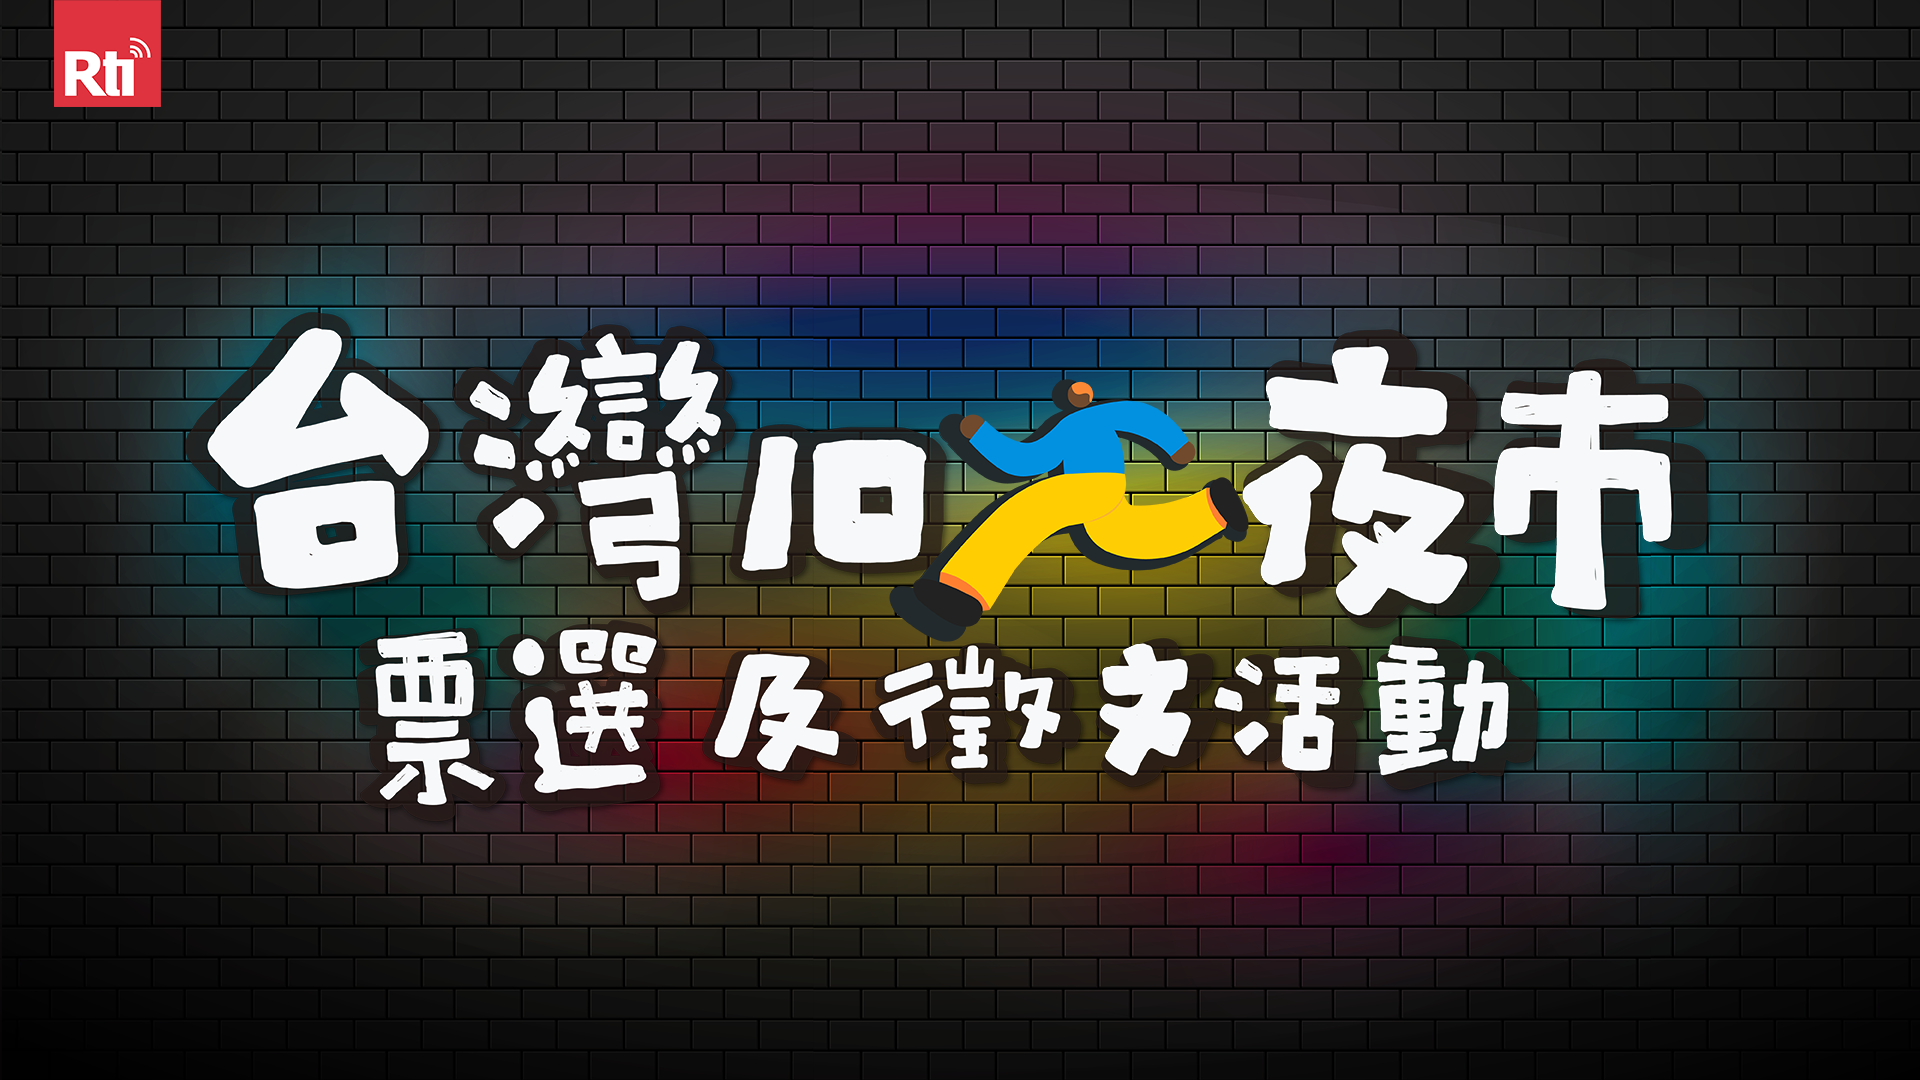
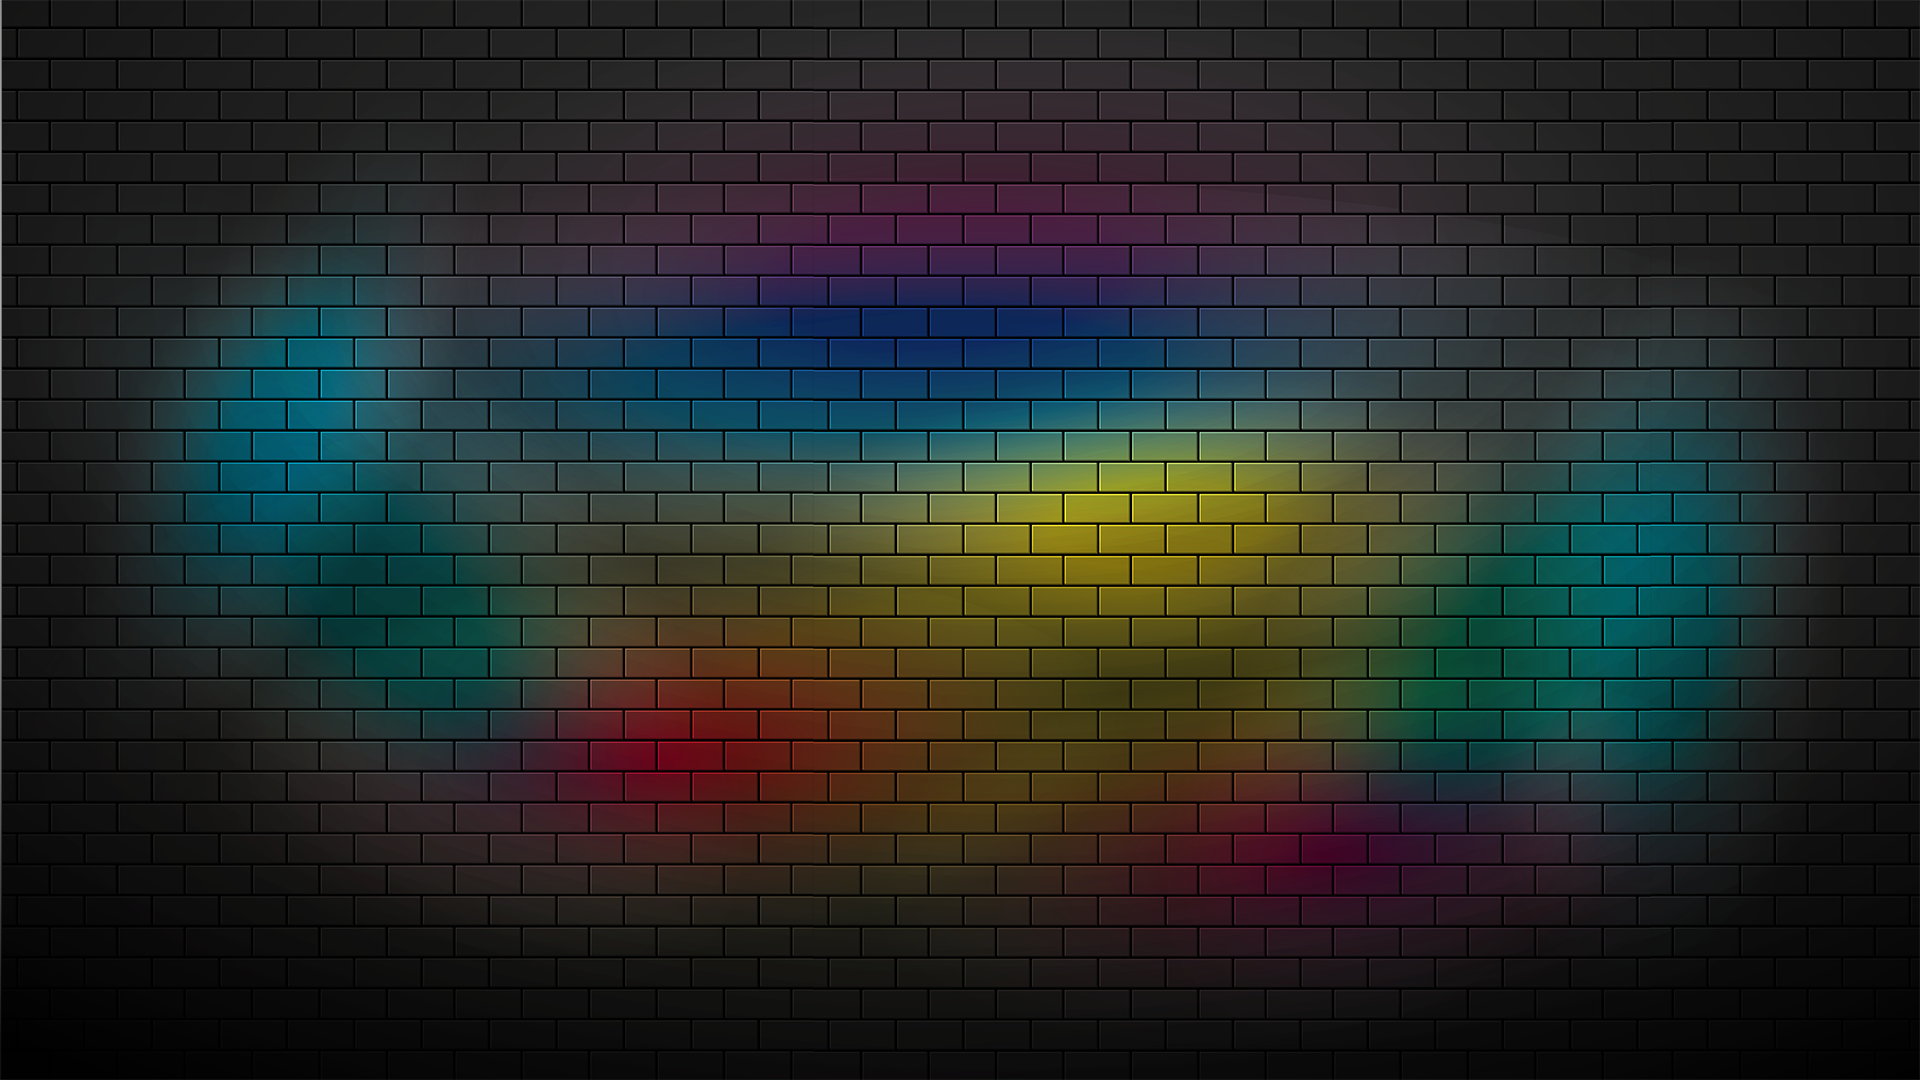
banner處理完成： 1.替換圖片 2.增加霓虹燈效果

Changed region(s): [[0.0938, 0.275, 0.9062, 0.7639], [0.0, 0.0, 0.0938, 0.1222]]

diff --git a/components/layout/banner/styles.module.css b/components/layout/banner/styles.module.css
@@ -19,7 +19,6 @@
   object-fit: cover;
 }
 
-
 .bannerBg2 img, .tabletBannerBg2 img {
   width: 100%;
   height: 100%;
@@ -43,6 +42,63 @@
   z-index: 1;
 }
 
+/* 霓虹燈動畫效果 - 應用到裝飾圖片 */
+.decorationImage {
+  animation: neonImageFlicker 4s ease-in-out infinite;
+  filter: brightness(1.1) saturate(1.2);
+}
+
+/* 霓虹燈圖片閃爍動畫 */
+@keyframes neonImageFlicker {
+  0%, 25% {
+    filter: 
+      brightness(1.1) 
+      saturate(1.2) 
+      drop-shadow(0 0 10px rgba(255, 215, 0, 0.8))
+      drop-shadow(0 0 20px rgba(255, 215, 0, 0.6))
+      drop-shadow(0 0 30px rgba(255, 215, 0, 0.4));
+    opacity: 1;
+  }
+  
+  30%, 35% {
+    filter: 
+      brightness(0.9) 
+      saturate(1.0) 
+      drop-shadow(0 0 5px rgba(255, 215, 0, 0.4))
+      drop-shadow(0 0 10px rgba(255, 215, 0, 0.2));
+    opacity: 0.85;
+  }
+  
+  40%, 65% {
+    filter: 
+      brightness(1.2) 
+      saturate(1.3) 
+      drop-shadow(0 0 15px rgba(0, 191, 255, 0.8))
+      drop-shadow(0 0 25px rgba(0, 191, 255, 0.6))
+      drop-shadow(0 0 35px rgba(0, 191, 255, 0.4));
+    opacity: 1;
+  }
+  
+  70%, 75% {
+    filter: 
+      brightness(0.8) 
+      saturate(0.9) 
+      drop-shadow(0 0 8px rgba(0, 191, 255, 0.3))
+      drop-shadow(0 0 12px rgba(0, 191, 255, 0.2));
+    opacity: 0.8;
+  }
+  
+  80%, 100% {
+    filter: 
+      brightness(1.15) 
+      saturate(1.25) 
+      drop-shadow(0 0 12px rgba(255, 100, 255, 0.7))
+      drop-shadow(0 0 22px rgba(255, 100, 255, 0.5))
+      drop-shadow(0 0 32px rgba(255, 100, 255, 0.3));
+    opacity: 0.95;
+  }
+}
+
 .logoContainer, .tabletLogoContainer, .mobileLogoContainer {
   position: absolute;
   top: 0;
@@ -55,22 +111,23 @@
   z-index: 10;
 }
 
+/* Logo尺寸放大 - 桌機Logo再大一點 */
 .logoWrapper {
-  width: 60%;
-  max-width: 850px;
-  min-width: 400px;
+  width: 85%;
+  max-width: 1300px;
+  min-width: 600px;
 }
 
 .tabletLogoWrapper {
-  width: 70%;
-  max-width: 600px;
-  min-width: 350px;
+  width: 90%;
+  max-width: 1200px;
+  min-width: 580px;
 }
 
 .mobileLogoWrapper {
-  width: 90%;
-  max-width: 450px;
-  min-width: 280px;
+  width: 95%;
+  max-width: 600px;
+  min-width: 350px;
 }
 
 .hidden {
@@ -108,20 +165,40 @@
     left: 50px;
     width: 80px;
   }
+  
+  .decorationImage {
+    animation-duration: 3.5s;
+  }
 }
 
 /* 手機樣式調整 */
 @media (max-width: 768px) {
   .tabletLogoWrapper {
-    width: 65%;
-    min-width: 280px;
+    width: 85%;
+    min-width: 480px;
+  }
+  
+  .decorationImage {
+    animation-duration: 3s;
   }
 }
 
 @media (max-width: 576px) {
   .mobileLogoWrapper {
-    width: 90%;
-    min-width: 250px;
+    width: 95%;
+    min-width: 320px;
+  }
+  
+  .decorationImage {
+    animation-duration: 2.5s;
+  }
+  
+  /* 手機尺寸背景圖填滿整個裝置 */
+  .mobileBannerBg1 img {
+    width: 100%;
+    height: 100%;
+    object-fit: cover;
+    object-position: center;
   }
 }
 
@@ -132,9 +209,13 @@
   }
   
   .mobileLogoWrapper {
-    width: 85%;
-    min-width: 180px;
-    transform: scale(0.85);
+    width: 90%;
+    min-width: 250px;
+    transform: scale(0.9);
+  }
+  
+  .decorationImage {
+    animation-duration: 2s;
   }
   
   .mobileBannerContainer {
@@ -162,6 +243,7 @@
     width: 100%;
     height: 100%;
     object-fit: cover;
+    object-position: center;
     min-height: 100vh;
   }
   

diff --git a/components/layout/banner/index.js b/components/layout/banner/index.js
@@ -120,16 +120,16 @@ const AnimatedBanner = () => {
           />
         </div>
 
-        {/* 手機第二張背景圖 - 淡入效果 */}
+        {/* 手機裝飾圖片 - 霓虹燈動畫 */}
         <div
           className={styles.mobileBannerBg2}
           style={{ opacity: mounted ? 1 : 0 }}
         >
           <img
-            src={getImagePath('/image/banner/mb-2.png')}
-            alt="手機背景圖片2"
+            src={getImagePath('/image/banner/mb-dec.png')}
+            alt="手機裝飾圖片"
             loading="lazy"
-            style={{ objectFit: 'cover', width: '100%', height: '100%' }}
+            className={styles.decorationImage}
           />
         </div>
 
@@ -141,7 +141,7 @@ const AnimatedBanner = () => {
             }`}
           >
             <img
-              src={getImagePath('/image/banner/logo.png')}
+              src={getImagePath('/image/banner/m-logo.png')}
               alt="台灣經典小吃票選活動"
               className={styles.floatingLogo}
               loading="eager"
@@ -177,15 +177,16 @@ const AnimatedBanner = () => {
           />
         </div>
 
-        {/* 平板第二張背景圖 - 淡入效果 */}
+        {/* 平板裝飾圖片 - 霓虹燈動畫 */}
         <div
           className={styles.tabletBannerBg2}
           style={{ opacity: mounted ? 1 : 0 }}
         >
           <img
-            src={getImagePath('/image/banner/tg-2.png')}
-            alt="平板背景圖片2"
+            src={getImagePath('/image/banner/dec.png')}
+            alt="平板裝飾圖片"
             loading="lazy"
+            className={styles.decorationImage}
           />
         </div>
 
@@ -197,7 +198,7 @@ const AnimatedBanner = () => {
             }`}
           >
             <img
-              src={getImagePath('/image/banner/logo.png')}
+              src={getImagePath('/image/banner/tg-logo.png')}
               alt="台灣經典小吃票選活動"
               className={styles.floatingLogo}
               loading="eager"
@@ -232,12 +233,13 @@ const AnimatedBanner = () => {
         />
       </div>
 
-      {/* 第二張背景圖 (bg-2) 帶淡入效果 */}
+      {/* 桌面裝飾圖片 - 霓虹燈動畫 */}
       <div className={styles.bannerBg2} style={{ opacity: mounted ? 1 : 0 }}>
         <img
-          src={getImagePath('/image/banner/bg-2.png')}
-          alt="背景圖片2"
+          src={getImagePath('/image/banner/web-dec.png')}
+          alt="桌面裝飾圖片"
           loading="lazy"
+          className={styles.decorationImage}
         />
       </div>
 

diff --git a/pages/index.js b/pages/index.js
@@ -9,7 +9,7 @@ import styles from './styles.module.css'
 
 export default function Home() {
   return (
-    <IndexLayout showBanner={false} title="台灣10大經典小吃" pageName="home">
+    <IndexLayout showBanner={false} title="台灣10大夜市" pageName="home">
       <AnimatedBanner />
       <div className={styles.pageContainer}>
         <main className={styles.mainContent}>
